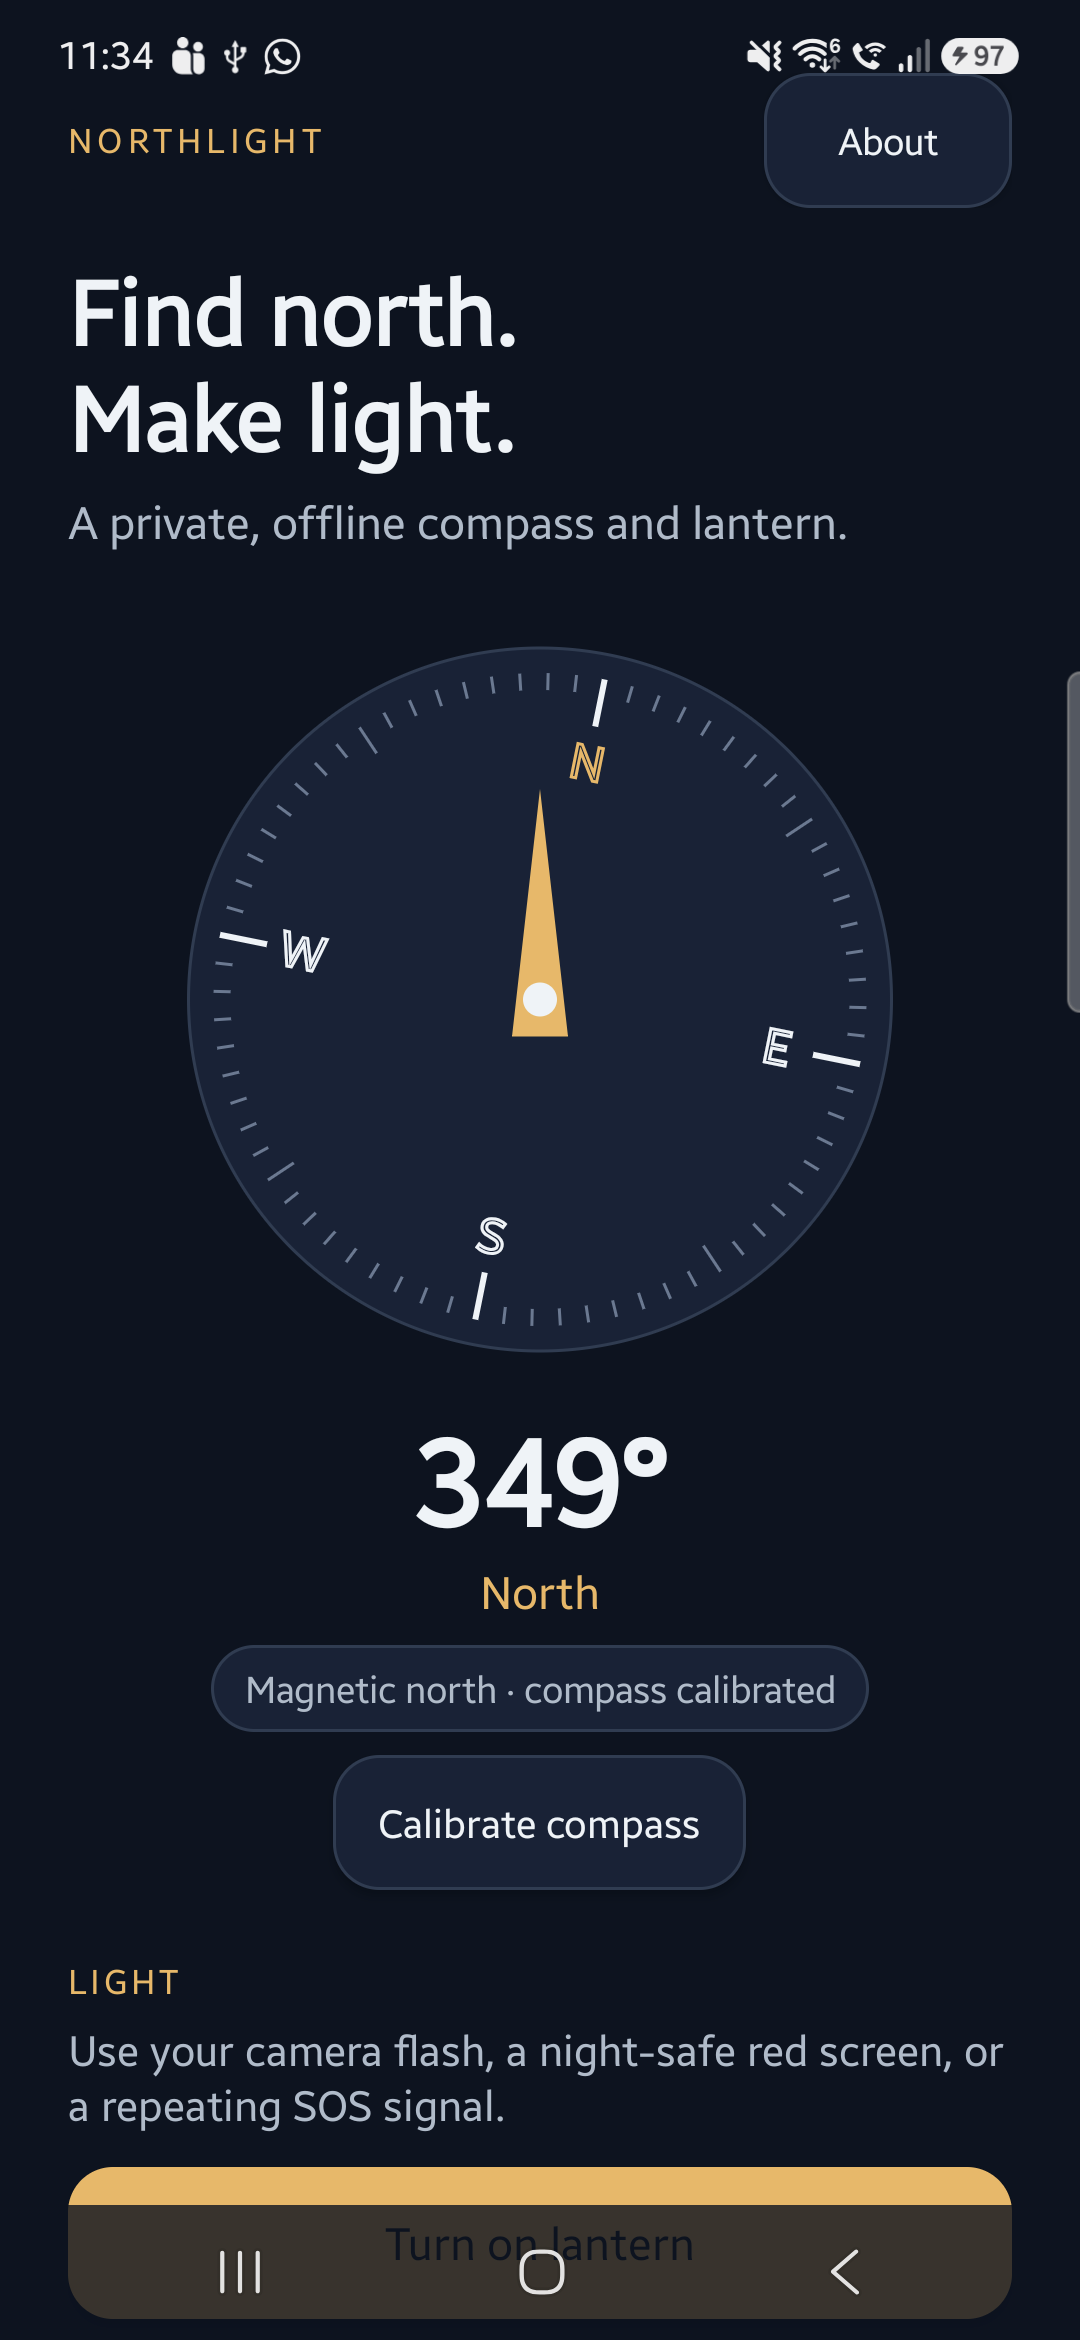
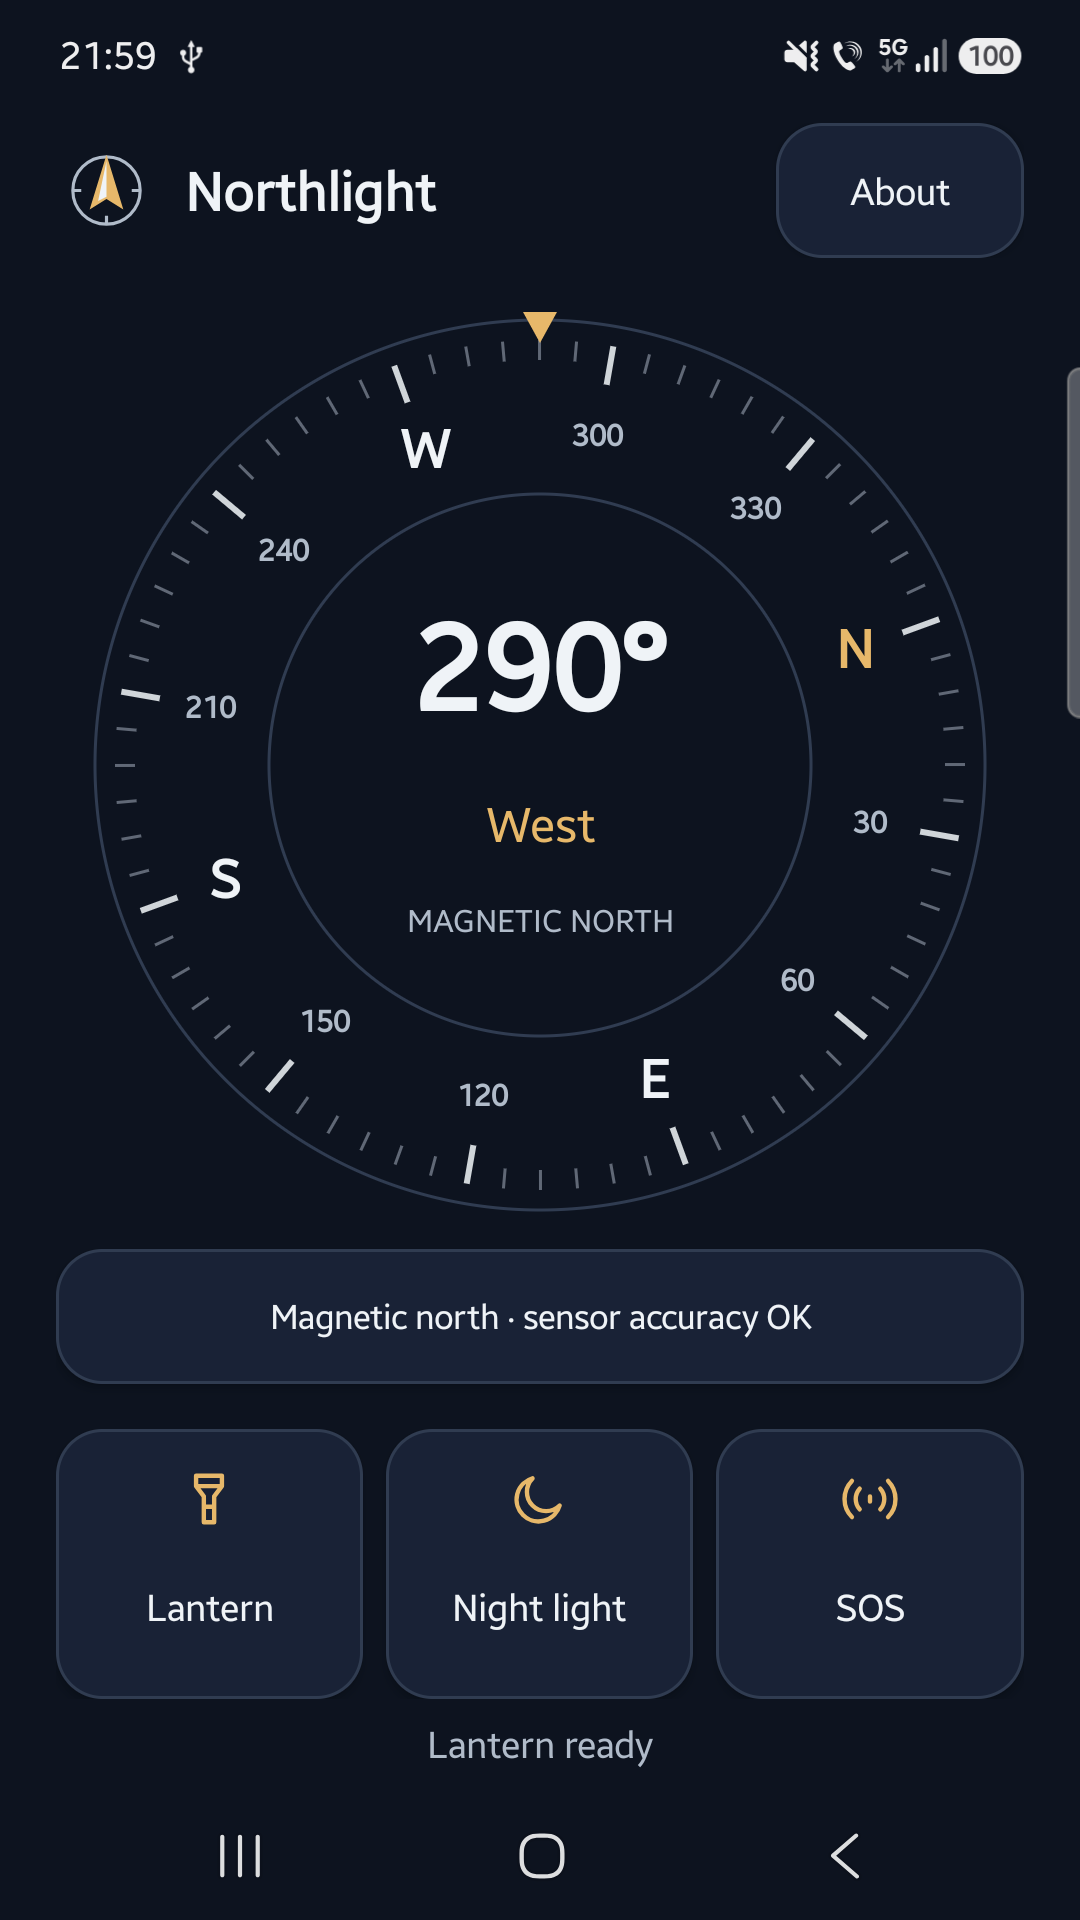
Publish Northlight offline compass tutorial

diff --git a/src/data/apps.ts b/src/data/apps.ts
@@ -47,8 +47,8 @@ export const apps: KreativApp[] = [
     category: "Compass and light",
     accessLabel: "Free + optional paid Pro",
     proDescription:
-      "Optional Northlight Pro adds saved bearings, amber and green screen lights, and an adjustable flash strobe through a one-time Google Play purchase. The core compass, lantern, red light, and SOS stay free. Your local Pro price is shown before purchase.",
-    screenshotHeight: 2340,
+      "Optional Northlight Pro adds up to eight saved magnetic bearings, spoken phone-turn guidance, optional alignment vibration, amber and green screen lights, and an adjustable strobe through a one-time Google Play purchase. Core compass, speech, GPS altitude, lantern, red light and SOS remain free. Your local Pro price is shown before purchase.",
+    screenshotHeight: 1920,
     stores: [
       {
         platform: "Android",
@@ -57,13 +57,14 @@ export const apps: KreativApp[] = [
       },
     ],
     description:
-      "An offline magnetic compass, LED lantern, red-light screen, and SOS light for Android.",
+      "An offline magnetic compass for Android, with spoken headings, optional GPS altitude estimates and practical light tools.",
     features: [
-      "Magnetic compass with accuracy feedback",
-      "Adjustable LED lantern on supported devices",
-      "Red-light screen, SOS signal, and Quick Settings torch tile",
+      "Read magnetic headings with a clear degree dial and accuracy feedback",
+      "Hear headings using an installed offline voice",
+      "Enable GPS altitude estimates with reference and uncertainty labels",
+      "Use the LED lantern, adjustable red screen light, SOS and Quick Settings torch tile",
     ],
     limitation:
-      "Compass accuracy depends on your phone's sensors and nearby magnetic interference. Flash brightness varies by device. SOS is a flashing light, not an emergency call or a substitute for dedicated safety equipment.",
+      "Compass accuracy depends on the phone's sensors and nearby magnetic interference. GPS altitude is approximate; read the displayed reference and vertical uncertainty. Bearing cues describe phone orientation, not routes or safe paths. SOS is a flashing light, not an emergency call. Flash brightness and haptics depend on hardware and Android settings.",
   },
 ];

diff --git a/src/pages/sitemap.xml.ts b/src/pages/sitemap.xml.ts
@@ -37,8 +37,8 @@ const escapeXml = (value: string) =>
 
 const pageDates: Record<string, string> = {
   "/": "2026-10-15", "/product-to-profit/": "2026-10-12", "/projects/": "2026-10-15",
-  "/apps/": "2026-10-15", "/apps/northlight/": "2026-10-15", "/apps/sharesafe/": "2026-10-15",
-  "/updates/": "2026-10-15", "/privacy/": "2026-10-17", "/about/": "2026-10-12",
+  "/apps/": "2026-10-17", "/apps/northlight/": "2026-10-17", "/apps/sharesafe/": "2026-10-15",
+  "/updates/": "2026-10-17", "/privacy/": "2026-10-17", "/about/": "2026-10-12",
   "/privacy/blockshift/": "2026-10-17",
   "/privacy/northlight/": "2026-10-10", "/privacy/sharesafe/": "2026-10-15"
 };

diff --git a/src/content/news/offline-compass-android-northlight.md b/src/content/news/offline-compass-android-northlight.md
@@ -1,0 +1,112 @@
+---
+title: "How to use an offline compass on Android with Northlight"
+description: "Read magnetic headings, hear your phone direction, check GPS altitude uncertainty and use Northlight light tools on Android with this screenshot guide."
+dateLabel: "October 17, 2026"
+sortDate: 2026-10-17
+category: "Product"
+app: "northlight"
+---
+
+Open Northlight and hold your Android phone flat, with its top edge pointing in the direction you want to check. Read the heading in the compass dial and check the accuracy message beneath it. Northlight shows **magnetic north**, not true north, and does not plan a route.
+
+This guide covers the Google Play edition. The compass, spoken headings, GPS altimeter, lantern, red screen light and SOS signal are free. You do not need Pro for the steps below.
+
+Screenshots show the real Northlight 1.2.0 preview build on a Samsung Galaxy A55. Its app interface matches the released version. The headings and altitude shown are readings from that capture session, not readings for your current location or phone. Tap a screenshot to view it at full size.
+
+[Get Northlight on Google Play](https://play.google.com/store/apps/details?id=com.kreativ.northlight&utm_source=madebykreativ&utm_medium=website&utm_campaign=northlight_offline_202610&utm_content=compass_tutorial_intro)
+
+## Read the magnetic compass
+
+The large number shows the phone's magnetic heading in degrees. The direction word gives a simpler label, such as North or West. The compass depends on the phone's sensors; some phones do not have a usable compass sensor.
+
+Point the top of the phone towards the direction you want to inspect. Move away from metal surfaces, speakers, magnets or a magnetic phone mount before interpreting the reading. A phone case can also cause interference.
+
+Read the accuracy message under the dial. If calibration is needed, tap that message for guidance and move the phone slowly in a figure-eight away from metal or magnets. Calibration feedback is not a guarantee that a reading is precise.
+
+<figure class="tutorial-screenshot">
+  <a href="/images/northlight/tutorial/01-compass.png">
+    <img src="/images/northlight/tutorial/01-compass.png" width="976" height="1680" loading="lazy" decoding="async" alt="Northlight's real compass shows 290 degrees West, magnetic north, sensor accuracy feedback, and Lantern, Night light and SOS controls." />
+  </a>
+  <figcaption>A real captured heading. Northlight reports the direction the phone points, not the direction a person is walking.</figcaption>
+</figure>
+
+## Hear a spoken heading
+
+Scroll to **SPOKEN COMPASS · FREE** and tap **Speak direction**. Northlight uses an installed offline voice matching the app language, in English or Romanian. It does not use your microphone or record audio.
+
+If no suitable voice is installed, open **Speech settings** and choose **Manage offline voices**. Android's voice installer may need an internet connection to download voice data. After setup, return to Northlight and try again.
+
+For repeated readings, turn on **Automatic announcements**. The app announces stable heading changes rather than speaking continuously. Speech settings let you adjust the minimum interval and voice speed. Use **Pause speech** when finished. Leaving the app pauses speech; it does not restart automatically when you return.
+
+With a screen reader active, explicitly requested readings are handed to that screen reader and automatic app speech is disabled to avoid overlapping voices. The screen reader uses its own voice and privacy settings.
+
+<figure class="tutorial-screenshot">
+  <a href="/images/northlight/tutorial/02-spoken-compass.png">
+    <img src="/images/northlight/tutorial/02-spoken-compass.png" width="976" height="810" loading="lazy" decoding="async" alt="The spoken compass panel shows an offline voice ready, Speak direction, automatic-announcement and speech-setting controls, and a real West heading result." />
+  </a>
+  <figcaption>Spoken headings describe phone orientation. They are not obstacle warnings, walking directions or safe-crossing instructions. Keep surrounding sounds audible.</figcaption>
+</figure>
+
+## Check a GPS altitude estimate
+
+The altimeter is optional and off by default. Scroll to **ALTIMETER · FREE** and tap **Start GPS altimeter**. Read the explanation, then allow precise foreground location if you want to use this feature. After granting permission, tap Start again to begin measurement.
+
+Compass, speech and light tools do not need location access. If you allow only approximate location, the altimeter stays off and explains why. You can continue using the other tools.
+
+GPS needs usable satellite reception. An open view of the sky helps, and the first fix can take time. A missing reading is not zero altitude. Continuous GPS uses extra battery.
+
+Read the information beside the number:
+
+- **Reference** identifies what the height is relative to. Android may report mean-sea-level altitude. Otherwise Northlight labels the WGS84 reference, which is not sea level or height above the ground.
+- **Reported vertical accuracy** describes the uncertainty supplied by Android for that reference. It is not a guaranteed maximum error.
+- **Status** explains low accuracy, missing uncertainty, stale readings or a wait for a usable fix.
+
+<figure class="tutorial-screenshot">
+  <a href="/images/northlight/tutorial/03-altimeter.png">
+    <img src="/images/northlight/tutorial/03-altimeter.png" width="976" height="850" loading="lazy" decoding="async" alt="A real GPS capture shows 94 metres, an Android-reported mean-sea-level reference, plus or minus 84 metres of reported vertical uncertainty, and a low-accuracy warning." />
+  </a>
+  <figcaption>This example shows why the uncertainty matters: 94 m is accompanied by ±84 m at 68 percent confidence and a low-accuracy warning. Do not read it as a precise elevation.</figcaption>
+</figure>
+
+Tap **Units** to switch between metres and feet; this changes the display, not the measurement. Tap **Stop GPS altimeter** when finished. Leaving the home screen or locking the phone also stops measurement. Returning does not restart it automatically.
+
+Northlight does not save coordinates, routes or an altitude history. The altimeter is not intended for climbing, aviation, rescue or other safety-critical decisions.
+
+## Choose a light tool
+
+The three controls beneath the compass open **Lantern**, **Night light** and **SOS**.
+
+**Lantern** uses the phone's camera LED. Android may ask for camera permission so Northlight can control the flash; the app does not take photos or record video. Brightness adjustment is available only on supported phones. If another app is using the camera flash, the lantern may be unavailable.
+
+**Night light** opens the free red screen light. Adjust **Screen brightness**, then use **Close Red light** when finished. The screen stays awake while the light is open.
+
+<figure class="tutorial-screenshot">
+  <a href="/images/northlight/tutorial/04-red-light.png">
+    <img src="/images/northlight/tutorial/04-red-light.png" width="1080" height="1130" loading="lazy" decoding="async" alt="Northlight's actual red screen-light mode, with a screen-brightness slider and Close Red light button." />
+  </a>
+  <figcaption>A steady red screen light, not a flashing demonstration.</figcaption>
+</figure>
+
+**SOS** repeats a flash signal on phones with a usable camera flash and permission. Use **Stop SOS** to end it. This is only a flashing light: it does not make an emergency call, transmit your location or contact a rescue service. Avoid flashing lights near people sensitive to flashes.
+
+The optional Quick Settings lantern tile provides another way to access the torch after camera permission has been granted in the app. Tile placement depends on the phone's Android interface.
+
+## What optional Pro adds
+
+Northlight Pro is a one-time Google Play purchase, not a subscription. It adds up to eight named magnetic bearings stored on the phone, optional spoken phone-turn guidance and alignment vibration, amber and green screen lights, and an adjustable flash strobe.
+
+Saved bearings are directions, not saved places or routes. Voice and vibration cues tell you about phone alignment; they cannot establish that a path is safe or that you have arrived somewhere. Haptic feedback depends on phone hardware and Android settings.
+
+The local Pro price is shown before purchase. Use the same Google Play account to restore ownership. The compass, spoken headings, altimeter and basic light tools remain free.
+
+## What works offline
+
+The compass and light tools work on the phone without a network connection. Speech needs a suitable offline voice already installed. GPS does not require mobile data, but it does need satellite reception. Google Play purchases and ownership checks use the internet, and external website links open your browser when tapped.
+
+Northlight has no account, advertising or analytics. Read the [Northlight privacy policy](https://madebykreativ.com/privacy/northlight/) for details about permissions, local records, speech and optional purchases.
+
+## Before relying on a reading
+
+Check sensor accuracy, read the altitude reference and uncertainty, and distinguish phone orientation from navigation. Keep a separate means of emergency communication. Northlight is a convenient compass and light utility, not safety-critical navigation equipment.
+
+[Explore Northlight](https://madebykreativ.com/apps/northlight/) or [get it on Google Play](https://play.google.com/store/apps/details?id=com.kreativ.northlight&utm_source=madebykreativ&utm_medium=website&utm_campaign=northlight_offline_202610&utm_content=compass_tutorial_footer).
